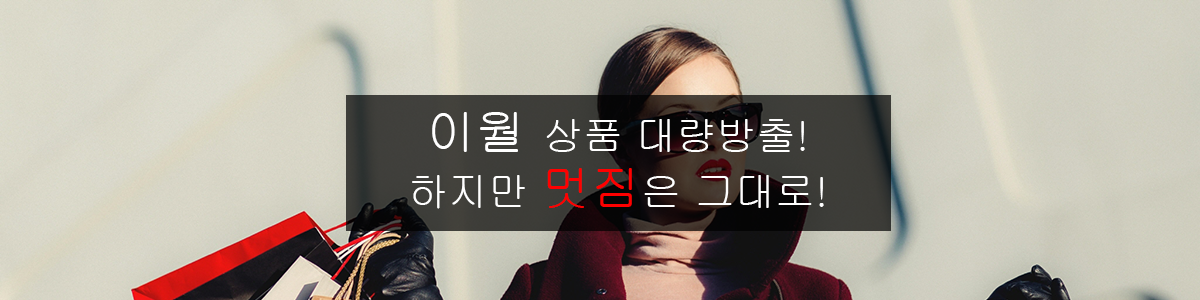
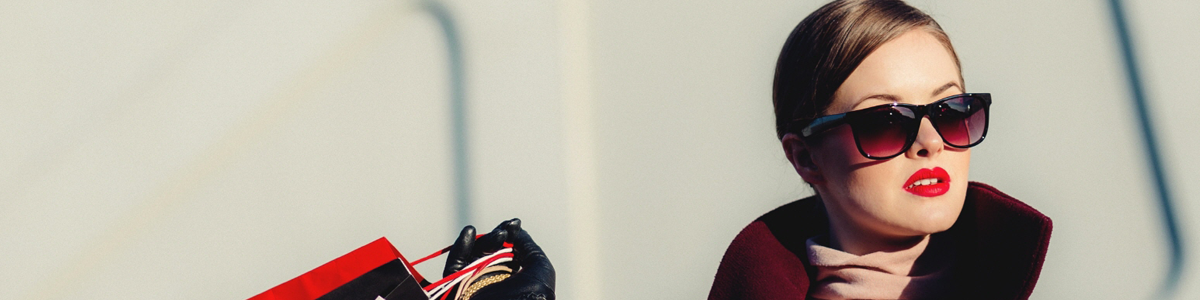
0223

diff --git a/A01/css/style.css b/A01/css/style.css
@@ -1,5 +1,3 @@
-@charset "UTF-8";
-
 * {
   margin: 0;
   padding: 0;
@@ -82,19 +80,20 @@ header > nav {
 
 #slide {
   height: 300px;
+
   position: relative;
   overflow: hidden;
 }
 #slide > a {
+  float: left;
   position: absolute;
   top: 100%;
 }
 #slide > a:first-child {
   top: 0;
 }
-#slide>img{
-    width: 1200px;
-    height: 300px;
+#slide img{
+    display: block;
 }
 
 section {
@@ -103,7 +102,7 @@ section {
 }
 section div {
   float: left;
-  padding: 10px 5px 0;
+  padding: 0 5px 0;
   height: 200px;
 }
 #recent {
@@ -116,7 +115,7 @@ section div {
 #tab li {
   list-style: none;
   float: left;
-  padding: 5px 10px;
+  padding:  10px;
   font-size: 16px;
   color: #999;
   background: #bbb;
@@ -129,6 +128,7 @@ section div {
 }
 #notice {
   width: 100%;
+  height: 150px;
 }
 #notice> table {
   width: 100%;
@@ -185,7 +185,7 @@ section div {
   font-weight: bold;
 }
 #quick img {
-  padding: 60px 30px 20px;
+  padding: 30px 30px 20px;
   width: 100%;
 }
 
@@ -215,7 +215,7 @@ footer > div {
   display: block;
 }
 #sns > a > img {
-  width: 15px;
+  width: 13px;
   vertical-align: middle;
 }
 #sns > a:hover,

diff --git a/A01/index.html b/A01/index.html
@@ -60,9 +60,9 @@
 
 
         <div id="slide">
-            <a href="#"><img src="images/slide01.png" alt="슬라이드 이미지1번"></a>
-            <a href="#"><img src="images/slide02.png" alt="슬라이드 이미지2번"></a>
-            <a href="#"><img src="images/slide03.png" alt="슬라이드 이미지3번"></a>
+            <a href="#"><img src="images/slide01.jpg" alt="슬라이드 이미지1번"></a>
+            <a href="#"><img src="images/slide02.jpg" alt="슬라이드 이미지2번"></a>
+            <a href="#"><img src="images/slide03.jpg" alt="슬라이드 이미지3번"></a>
         </div>
         <section>
             <div id="recent">
